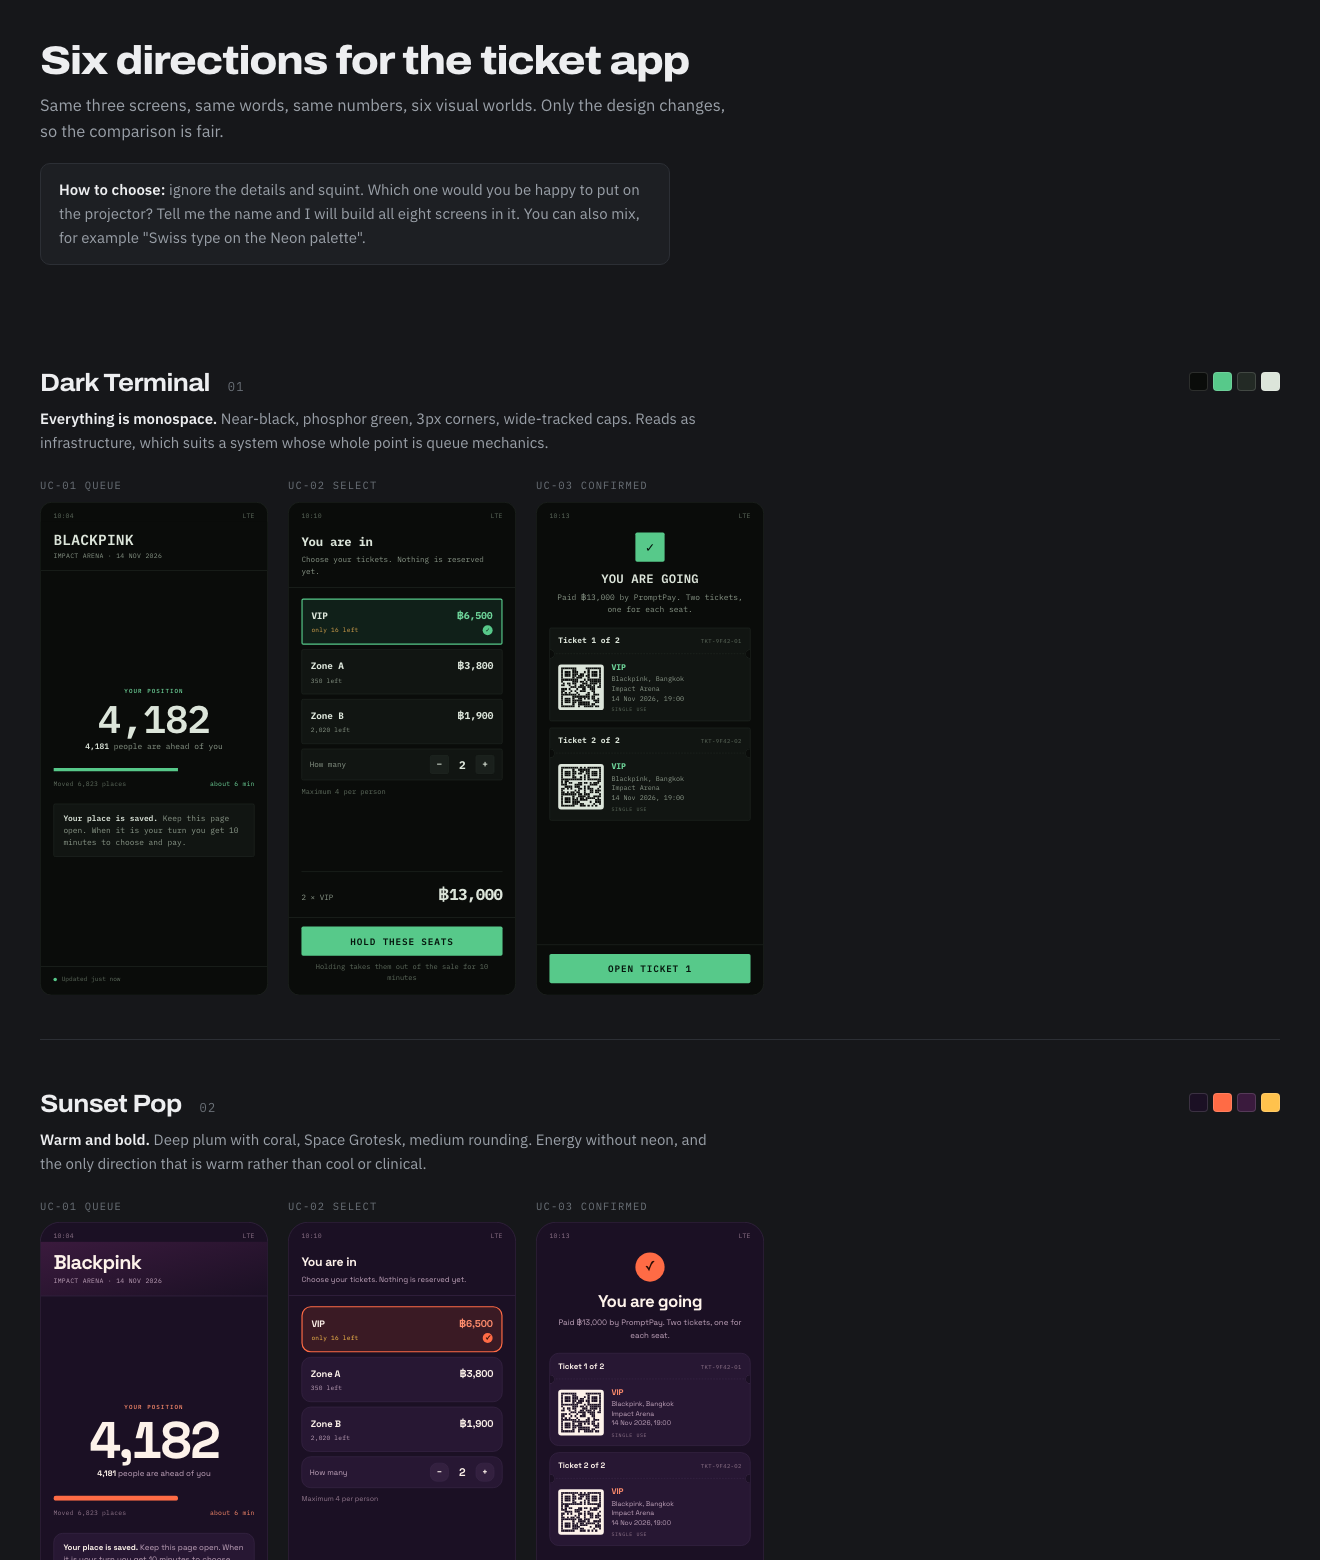
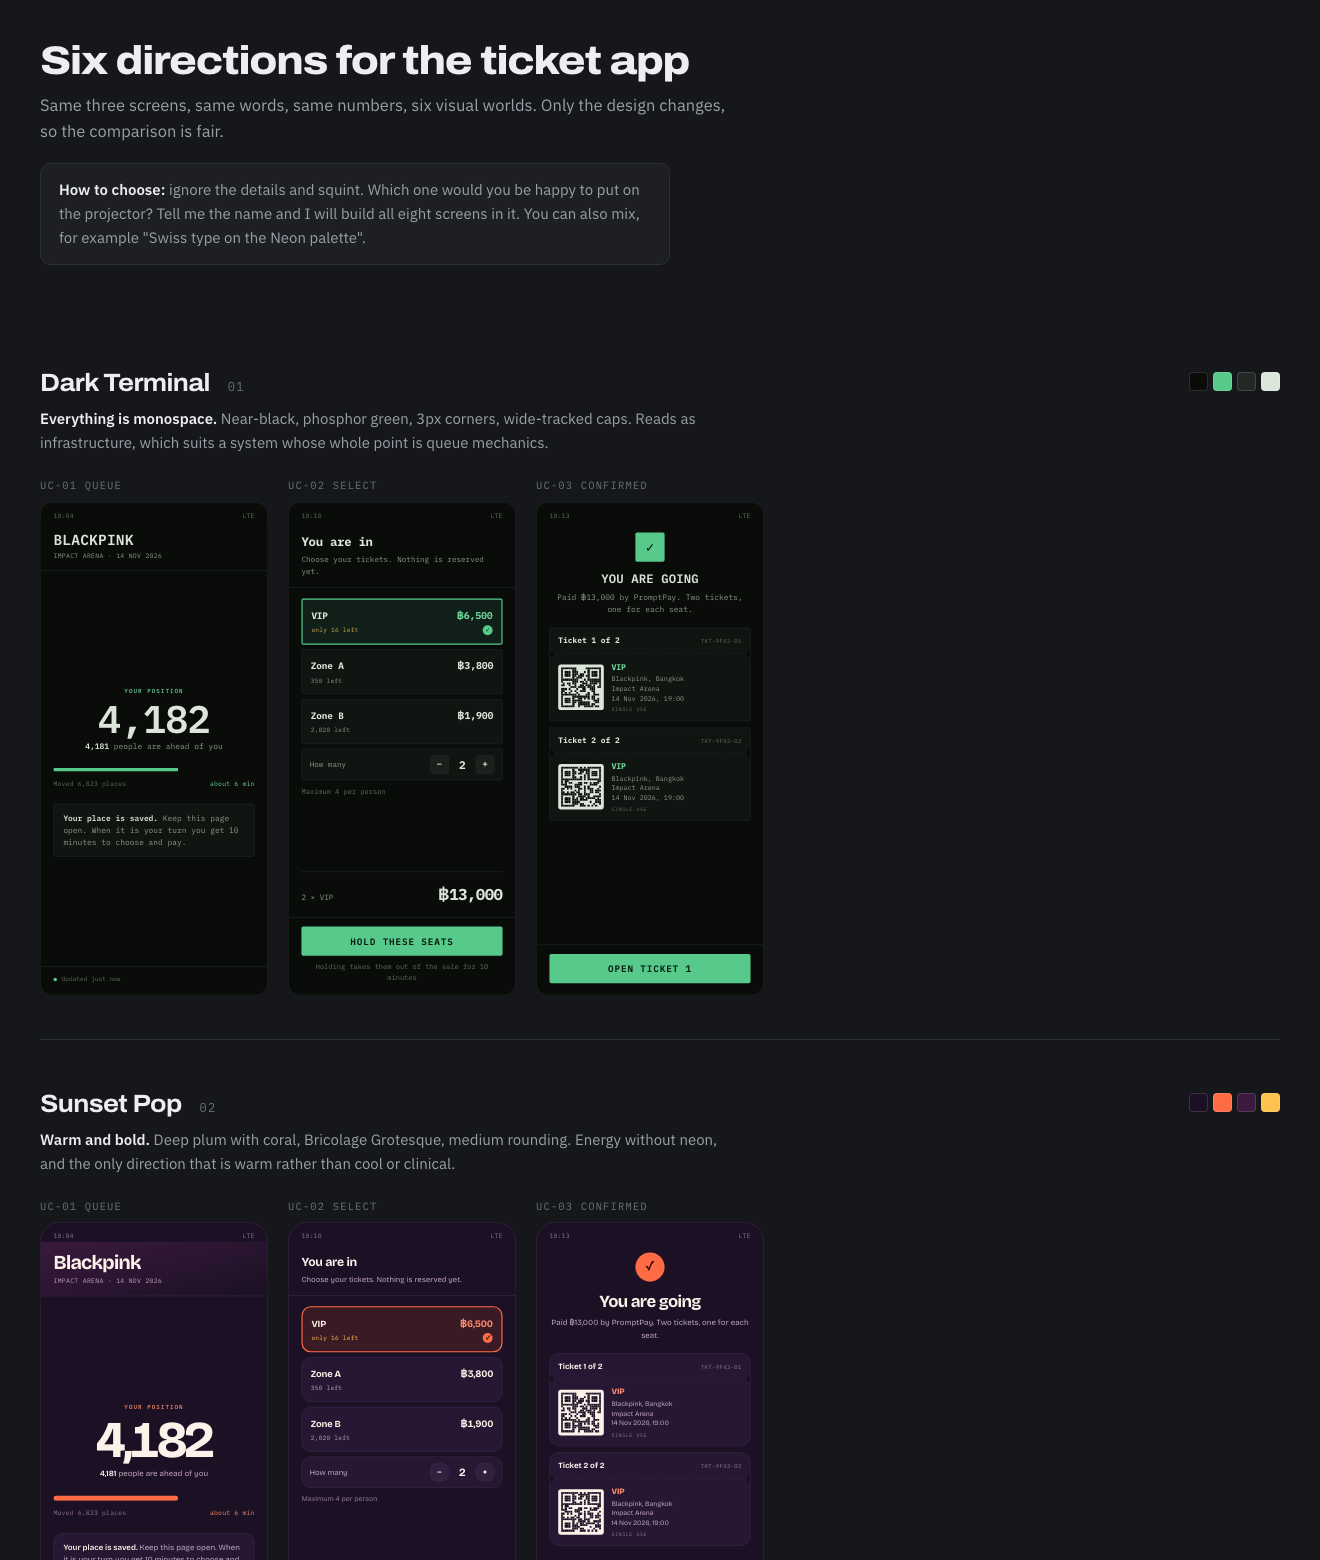
Swap Space Grotesk for Bricolage Grotesque in Sunset Pop
Space Grotesk is one of the faces every generated UI reaches for, so
it cannot carry a direction whose whole pitch is personality.
Bricolage Grotesque is warm, slightly eccentric and not saturated.

diff --git a/design/prototype/themes.html b/design/prototype/themes.html
@@ -6,7 +6,7 @@
 <title>Six Directions</title>
 <link rel="preconnect" href="https://fonts.googleapis.com">
 <link rel="preconnect" href="https://fonts.gstatic.com" crossorigin>
-<link rel="stylesheet" href="https://fonts.googleapis.com/css2?family=Archivo:wdth,wght@62..125,400..900&family=IBM+Plex+Mono:wght@400;500;600;700&family=IBM+Plex+Sans:wght@400;500;600;700&family=Outfit:wght@300;400;500;600;700&family=Space+Grotesk:wght@400;500;700&display=swap">
+<link rel="stylesheet" href="https://fonts.googleapis.com/css2?family=Archivo:wdth,wght@62..125,400..900&family=IBM+Plex+Mono:wght@400;500;600;700&family=IBM+Plex+Sans:wght@400;500;600;700&family=Outfit:wght@300;400;500;600;700&family=Bricolage+Grotesque:opsz,wght@12..96,400..800&display=swap">
 
 <style>
 /* ==========================================================================
@@ -346,8 +346,8 @@ body {
   --hero-bg:linear-gradient(165deg,#3A1A3D 0%,#1B1024 100%); --hero-line:#3D2A4A;
   --hero-ink:#FDF2EA; --hero-ink-2:#BFA3BA;
   --qr-bg:#FDF2EA; --qr-ink:#1B1024;
-  --fd:'Space Grotesk', sans-serif; --fb:'Space Grotesk', sans-serif;
-  --fm:'IBM Plex Mono', monospace; --num:'Space Grotesk', sans-serif;
+  --fd:'Bricolage Grotesque', sans-serif; --fb:'Bricolage Grotesque', sans-serif;
+  --fm:'IBM Plex Mono', monospace; --num:'Bricolage Grotesque', sans-serif;
   --r-ph:34px; --r:16px; --r-sm:12px; --r-bar:6px;
   --act-size:34px; --act-w:700; --act-ls:-0.035em;
   --fig-size:88px; --fig-w:700; --fig-ls:-0.05em;
@@ -490,7 +490,7 @@ body {
       sw: ["#0A0C0A", "#57C98A", "#232A25", "#DCE5DA"] },
 
     { id: "pop",   name: "Sunset Pop",
-      why: "<b>Warm and bold.</b> Deep plum with coral, Space Grotesk, medium rounding. Energy without neon, and the only direction that is warm rather than cool or clinical.",
+      why: "<b>Warm and bold.</b> Deep plum with coral, Bricolage Grotesque, medium rounding. Energy without neon, and the only direction that is warm rather than cool or clinical.",
       sw: ["#1B1024", "#FF6B45", "#3A1A3D", "#FFC24D"] }
   ];
 

diff --git a/design/prototype/README.md b/design/prototype/README.md
@@ -137,7 +137,7 @@ so the only variable is the design.
 | 3 | Swiss Poster | Loud and flat. White, 2px black rules, condensed 900 weight, vermilion. |
 | 4 | Mint Consumer | Calm and friendly. Soft green, very round, light weights. |
 | 5 | Dark Terminal | Monospace everywhere. Phosphor green on near-black, 3px corners. |
-| 6 | Sunset Pop | Warm and bold. Deep plum with coral, Space Grotesk. |
+| 6 | Sunset Pop | Warm and bold. Deep plum with coral, Bricolage Grotesque. |
 
 Each direction is one block of CSS custom properties under `[data-dir="..."]`.
 The components are shared, so applying a direction to the full app is a token
